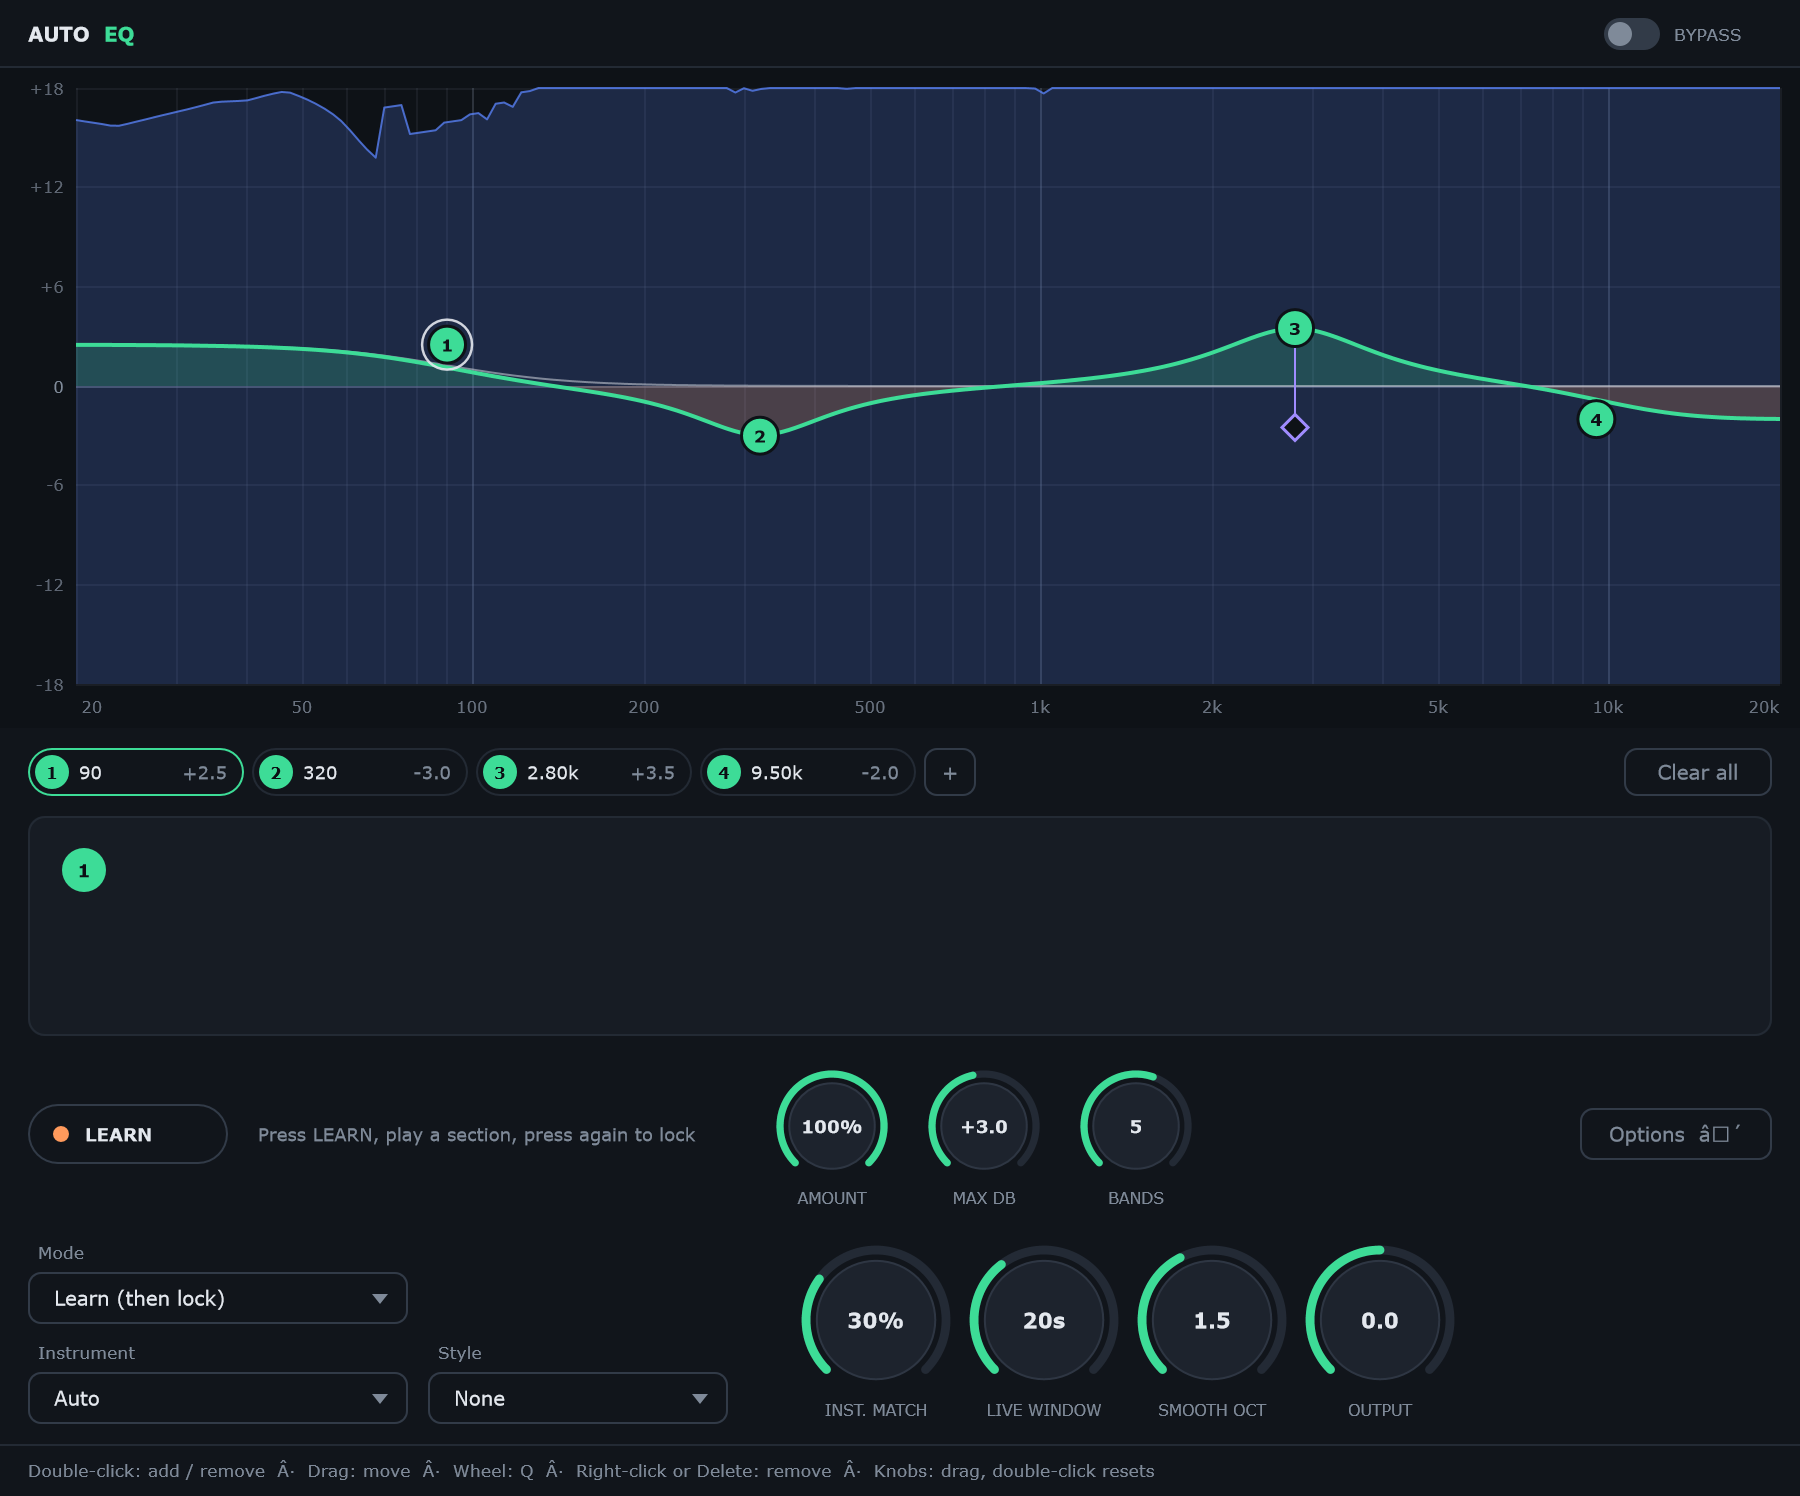
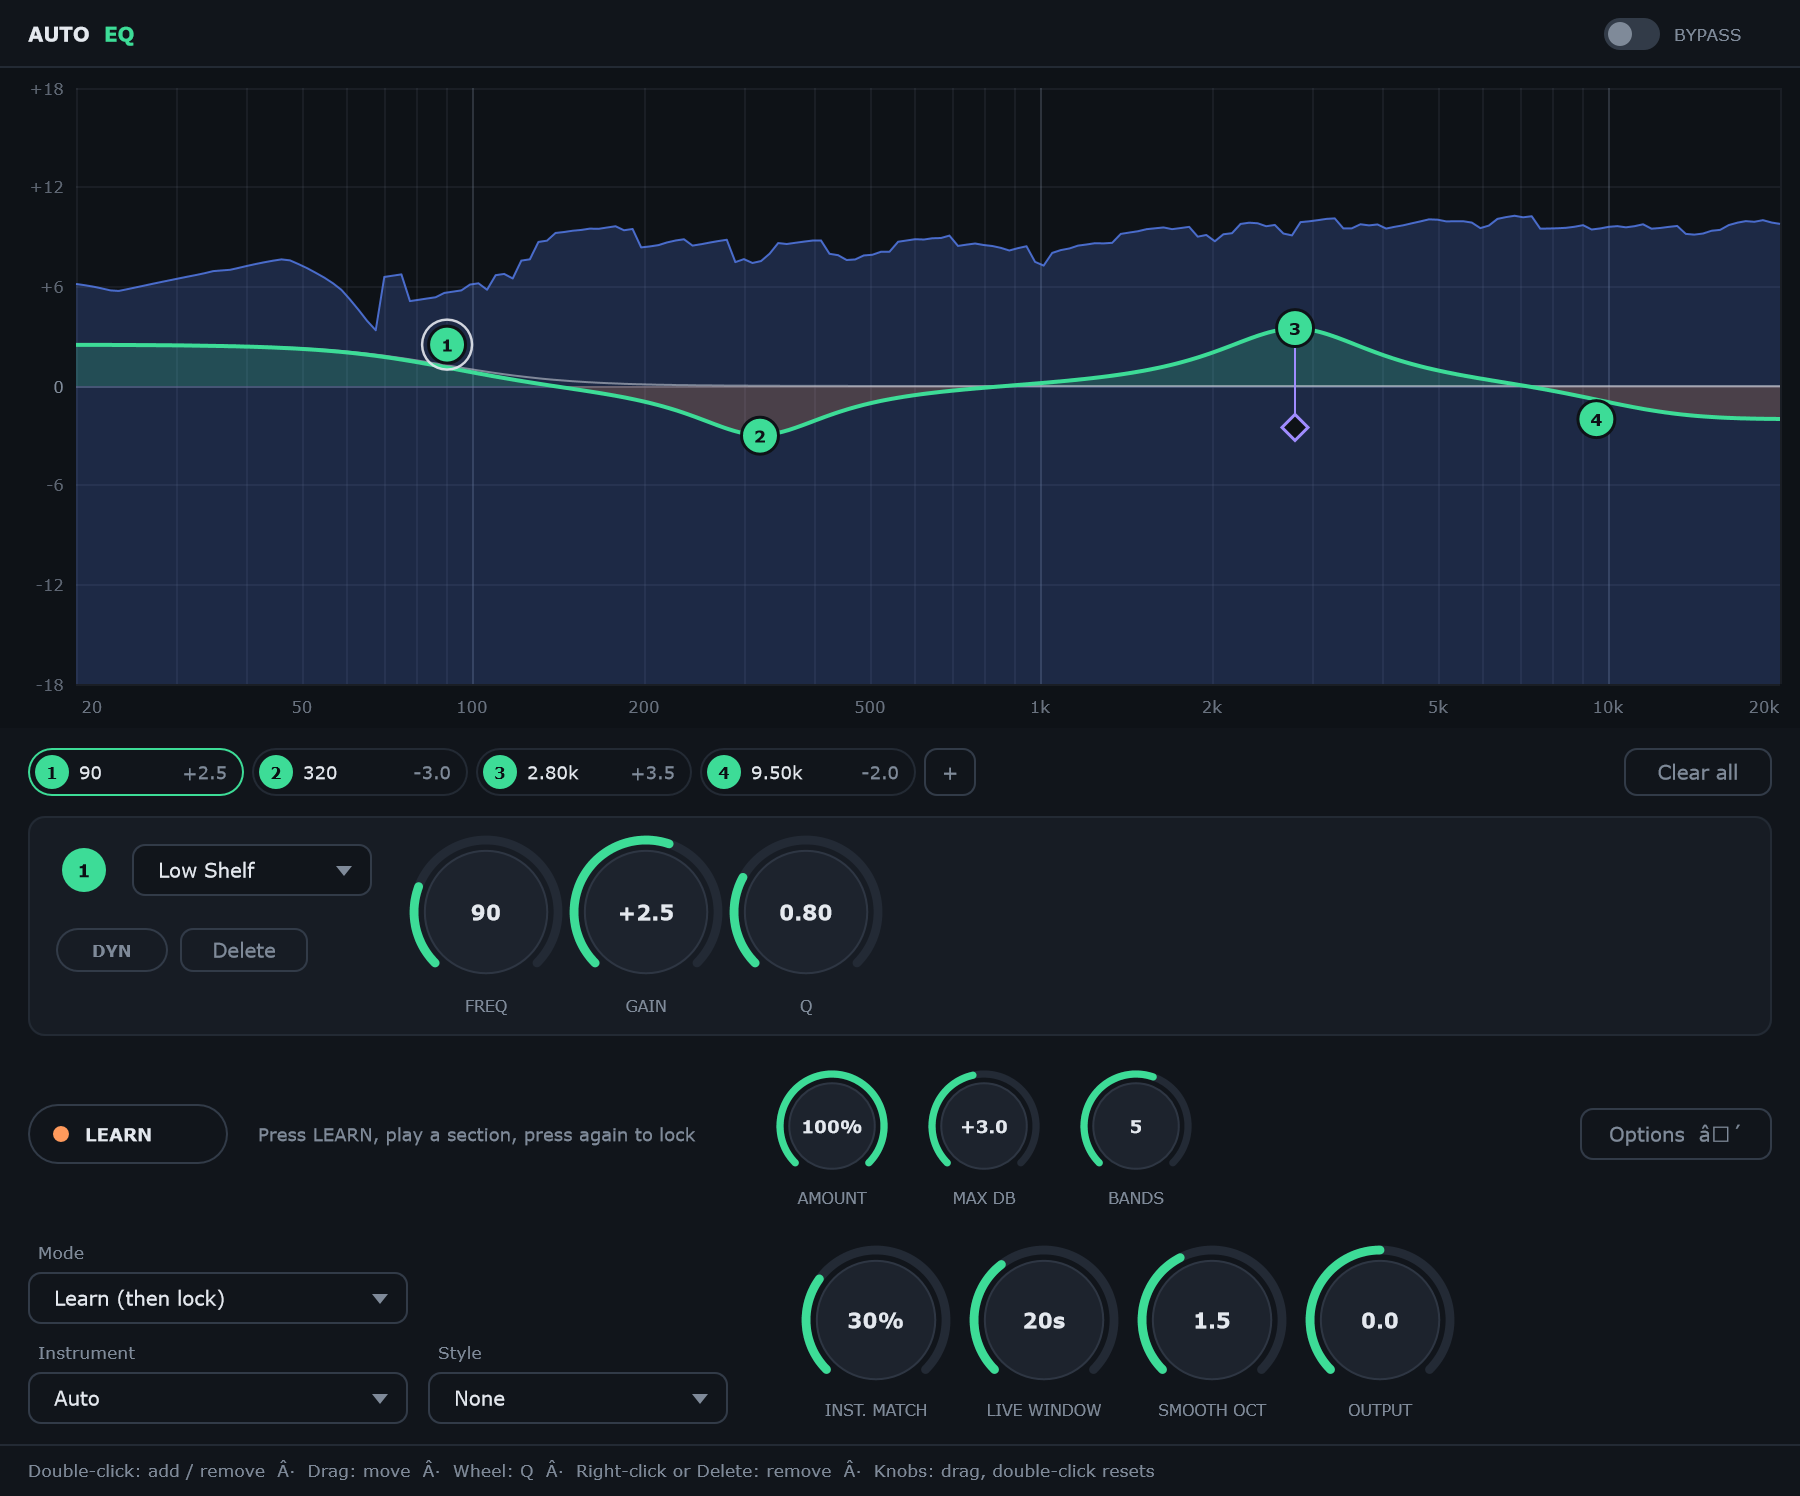
feat(vst): 하단 패널을 카드 두 개로 정리, 글자 깨짐 방지(ASCII)
Claude-Session: https://claude.ai/code/session_018gD6yrsBhp5tLwkYyvp8oM

diff --git a/vst/Source/PluginEditor.cpp b/vst/Source/PluginEditor.cpp
@@ -598,11 +598,11 @@ AutoEQEditor::AutoEQEditor(AutoEQProcessor& p)
 
 AutoEQEditor::~AutoEQEditor() { setLookAndFeel(nullptr); }
 
-int AutoEQEditor::wantedHeight() const { return 34 + 330 + 44 + 124 + 78 + (drawer_ ? 112 : 0) + 26; }
+int AutoEQEditor::wantedHeight() const { return kTitle + kGraph + kStrip + kBar + kGap + kAuto + (drawer_ ? kDrawer : 0) + kGap + kFoot; }
 
 void AutoEQEditor::setDrawer(bool open) {
     drawer_ = open;
-    options_.setButtonText(open ? "Options  ▴" : "Options  ▾");
+    options_.setButtonText(open ? "Options  -" : "Options  +");
     for (juce::Component* c : std::initializer_list<juce::Component*>{&autoMode_, &instrument_, &style_, &match_, &liveSec_, &smooth_, &output_, &modeL_, &instL_, &styleL_})
         c->setVisible(open);
     setSize(getWidth(), wantedHeight());
@@ -654,10 +654,10 @@ void AutoEQEditor::layoutStrip() {
         const bool on = graph_.bandOn(b);
         auto& t = *tabs_[size_t(b)];
         t.setVisible(on);
-        if (on) { t.setBounds(x, 34 + 330 + 10, 108, 24); x += 112; ++count; }
+        if (on) { t.setBounds(x, kTitle + kGraph + 10, 108, 24); x += 112; ++count; }
     }
     add_.setVisible(count < kNumBands);
-    add_.setBounds(x, 34 + 330 + 10, 26, 24);
+    add_.setBounds(x, kTitle + kGraph + 10, 26, 24);
     clear_.setVisible(count > 0);
 }
 
@@ -680,42 +680,49 @@ void AutoEQEditor::timerCallback() {
     if (proc_.analyzer.isLearning()) {
         const int inst = proc_.analyzer.activeInstrument();
         const juce::String name = inst >= 0 ? juce::String(aeq::instruments()[size_t(inst)].name) : juce::String("whole mix");
-        info_.setText(juce::String(autoMode_.getSelectedId() == 2 ? "Live" : "Learning") + "  " + juce::String(int(proc_.analyzer.confidence() * 100)) + "%  ·  " + name, juce::dontSendNotification);
+        info_.setText(juce::String(autoMode_.getSelectedId() == 2 ? "Live" : "Learning") + "  " + juce::String(int(proc_.analyzer.confidence() * 100)) + "%  |  " + name, juce::dontSendNotification);
     } else {
-        info_.setText(learn_.getToggleState() ? "Starting…" : "Press LEARN, play a section, press again to lock", juce::dontSendNotification);
+        info_.setText(learn_.getToggleState() ? "Starting..." : "Press LEARN, play a section, press again to lock", juce::dontSendNotification);
     }
 }
 
 void AutoEQEditor::paint(juce::Graphics& g) {
     g.fillAll(pal::plugin);
     g.setColour(pal::line);
-    g.drawHorizontalLine(33, 0.f, float(getWidth()));
+    g.drawHorizontalLine(kTitle - 1, 0.f, float(getWidth()));
 
     g.setColour(pal::text);
     g.setFont(juce::Font(juce::FontOptions(12.f, juce::Font::bold)));
-    g.drawText("AUTO", 14, 0, 44, 34, juce::Justification::centredLeft, false);
+    g.drawText("AUTO", 14, 0, 44, kTitle, juce::Justification::centredLeft, false);
     g.setColour(pal::accent);
-    g.drawText("EQ", 14 + 38, 0, 30, 34, juce::Justification::centredLeft, false);
+    g.drawText("EQ", 14 + 38, 0, 30, kTitle, juce::Justification::centredLeft, false);
 
-    // 선택한 밴드 막대
-    const auto bar = juce::Rectangle<float>(14.f, float(34 + 330 + 44), float(getWidth()) - 28.f, 110.f);
-    g.setColour(pal::raised);
-    g.fillRoundedRectangle(bar, 8.f);
-    g.setColour(pal::line);
-    g.drawRoundedRectangle(bar.reduced(0.5f), 8.f, 1.f);
+    auto card = [&](juce::Rectangle<float> r) {
+        g.setColour(pal::raised);
+        g.fillRoundedRectangle(r, 8.f);
+        g.setColour(pal::line);
+        g.drawRoundedRectangle(r.reduced(0.5f), 8.f, 1.f);
+    };
+    const float cw = float(getWidth()) - 28.f;
+
+    // 선택한 밴드 카드
+    const auto bar = juce::Rectangle<float>(14.f, float(barTop()), cw, float(kBar));
+    card(bar);
     if (!barHasBand_) {
         g.setColour(pal::muted);
         g.setFont(juce::Font(juce::FontOptions(12.f)));
         g.drawText("No band selected. Press + or double-click the graph.", bar.toNearestInt(), juce::Justification::centred, false);
     } else {
+        const float cx = bar.getX() + 30.f, cy = bar.getY() + 24.f;
         g.setColour(pal::accent);
-        const float cx = bar.getX() + 28.f, cy = bar.getY() + 27.f;
         g.fillEllipse(cx - 11.f, cy - 11.f, 22.f, 22.f);
         g.setColour(pal::bg);
         g.setFont(juce::Font(juce::FontOptions(11.f, juce::Font::bold)));
         g.drawText(juce::String(graph_.selected + 1), juce::Rectangle<float>(cx - 11.f, cy - 11.f, 22.f, 22.f), juce::Justification::centred, false);
-        if (barDyn_) {  // 다이나믹 묶음 테두리
-            const auto box = juce::Rectangle<float>(bar.getX() + 430.f, bar.getY() + 12.f, bar.getWidth() - 444.f, bar.getHeight() - 24.f);
+        g.setColour(pal::line);
+        g.drawVerticalLine(int(bar.getX()) + kKnobX - 14, bar.getY() + 14.f, bar.getBottom() - 14.f);
+        if (barDyn_) {
+            const auto box = juce::Rectangle<float>(bar.getX() + float(kDynX), bar.getY() + 12.f, float(kDynW), bar.getHeight() - 22.f);
             g.setColour(pal::dyn.withAlpha(0.4f));
             g.drawRoundedRectangle(box, 8.f, 1.f);
             g.setColour(pal::raised);
@@ -726,54 +733,58 @@ void AutoEQEditor::paint(juce::Graphics& g) {
         }
     }
 
-    // 하단 안내
+    // 자동 학습 카드(옵션을 열면 아래로 늘어난다)
+    const auto autoCard = juce::Rectangle<float>(14.f, float(autoTop()), cw, float(kAuto + (drawer_ ? kDrawer : 0)));
+    card(autoCard);
+    if (drawer_) {
+        g.setColour(pal::line);
+        g.drawHorizontalLine(autoTop() + kAuto, autoCard.getX() + 14.f, autoCard.getRight() - 14.f);
+    }
+
     g.setColour(pal::line);
-    g.drawHorizontalLine(getHeight() - 26, 0.f, float(getWidth()));
+    g.drawHorizontalLine(getHeight() - kFoot, 0.f, float(getWidth()));
     g.setColour(pal::muted);
     g.setFont(juce::Font(juce::FontOptions(10.5f)));
-    g.drawText("Double-click: add / remove  ·  Drag: move  ·  Wheel: Q  ·  Right-click or Delete: remove  ·  Knobs: drag, double-click resets",
-               14, getHeight() - 26, getWidth() - 28, 26, juce::Justification::centredLeft, false);
+    g.drawText("Double-click: add / remove   |   Drag: move   |   Wheel: Q   |   Right-click or Delete: remove   |   Knobs: drag, double-click resets",
+               14, getHeight() - kFoot, getWidth() - 28, kFoot, juce::Justification::centredLeft, false);
 }
 
 void AutoEQEditor::resized() {
     const int W = getWidth();
     bypass_.setBounds(W - 14 - 84, 9, 84, 16);
-    int y = 34;
-    graph_.setBounds(0, y, W, 330);
-    y += 330;
-    clear_.setBounds(W - 14 - 74, y + 10, 74, 24);
+    graph_.setBounds(0, kTitle, W, kGraph);
+    clear_.setBounds(W - 14 - 74, kTitle + kGraph + 10, 74, 24);
     layoutStrip();
-    y += 44;
 
-    // 선택한 밴드 막대(내부 좌표)
-    const int bx = 14, by = y;
-    type_.setBounds(bx + 52, by + 14, 120, 26);
-    dyn_.setBounds(bx + 14, by + 56, 56, 22);
-    del_.setBounds(bx + 76, by + 56, 64, 22);
-    int kx = bx + 190;
-    for (auto* k : {&freq_, &gain_, &q_}) { k->setBounds(kx, by + 8, 78, 94); kx += 80; }
-    int dx = bx + 444;
-    for (auto* k : {&thr_, &range_, &att_, &rel_}) { k->setBounds(dx, by + 22, 62, 80); dx += 64; }
-    mode_.setBounds(dx + 6, by + 40, 90, 26);
-    y += 124;
+    // 밴드 카드
+    const int bx = 14, by = barTop();
+    type_.setBounds(bx + 54, by + 11, 128, 26);
+    dyn_.setBounds(bx + 14, by + 52, 56, 24);
+    del_.setBounds(bx + 76, by + 52, 62, 24);
+    int kx = bx + kKnobX;
+    for (auto* k : {&freq_, &gain_, &q_}) { k->setBounds(kx, by + 6, 74, 80); kx += 78; }
+    int dx = bx + kDynX + 14;
+    for (auto* k : {&thr_, &range_, &att_, &rel_}) { k->setBounds(dx, by + 14, 58, 70); dx += 60; }
+    mode_.setBounds(dx + 6, by + 30, 84, 26);
 
-    // LEARN 줄
-    learn_.setBounds(14, y + 20, 100, 30);
-    info_.setBounds(124, y + 20, 250, 30);
-    int ax = 380;
-    for (auto* k : {&amount_, &max_, &bands_}) { k->setBounds(ax, y + 2, 72, 72); ax += 76; }
-    options_.setBounds(W - 14 - 96, y + 22, 96, 26);
-    y += 78;
+    // 자동 학습 카드
+    const int ay = autoTop();
+    learn_.setBounds(14 + 14, ay + 24, 104, 30);
+    info_.setBounds(14 + 130, ay + 24, 270, 30);
+    int ax = 14 + 420;
+    for (auto* k : {&amount_, &max_, &bands_}) { k->setBounds(ax, ay + 4, 70, 70); ax += 74; }
+    options_.setBounds(W - 14 - 14 - 96, ay + 26, 96, 26);
 
     if (drawer_) {
-        modeL_.setBounds(14, y + 8, 80, 16);
-        autoMode_.setBounds(14, y + 26, 190, 26);
-        instL_.setBounds(14, y + 58, 80, 16);
-        instrument_.setBounds(14, y + 76, 190, 26);
-        styleL_.setBounds(214, y + 58, 80, 16);
-        style_.setBounds(214, y + 76, 150, 26);
-        int ox = 400;
-        for (auto* k : {&match_, &liveSec_, &smooth_, &output_}) { k->setBounds(ox, y + 12, 76, 90); ox += 84; }
+        const int dy = ay + kAuto;
+        modeL_.setBounds(14 + 14, dy + 8, 100, 16);
+        autoMode_.setBounds(14 + 14, dy + 26, 190, 26);
+        instL_.setBounds(14 + 14, dy + 56, 100, 16);
+        instrument_.setBounds(14 + 14, dy + 72 - 4, 190, 26);
+        styleL_.setBounds(14 + 214, dy + 56, 100, 16);
+        style_.setBounds(14 + 214, dy + 72 - 4, 150, 26);
+        int ox = 14 + 420;
+        for (auto* k : {&match_, &liveSec_, &smooth_, &output_}) { k->setBounds(ox, dy + 10, 70, 80); ox += 74; }
     }
 }
 

diff --git a/vst/Source/PluginEditor.h b/vst/Source/PluginEditor.h
@@ -123,6 +123,12 @@ private:
     void setDrawer(bool open);
     int wantedHeight() const;
 
+    // 세로 배치(px)
+    static constexpr int kTitle = 34, kGraph = 320, kStrip = 44, kBar = 92, kGap = 10, kAuto = 78, kDrawer = 100, kFoot = 26;
+    static constexpr int kKnobX = 200, kDynX = 440, kDynW = 372;
+    int barTop() const { return kTitle + kGraph + kStrip; }
+    int autoTop() const { return barTop() + kBar + kGap; }
+
     using SliderAtt = juce::AudioProcessorValueTreeState::SliderAttachment;
     using ButtonAtt = juce::AudioProcessorValueTreeState::ButtonAttachment;
     using ComboAtt = juce::AudioProcessorValueTreeState::ComboBoxAttachment;
